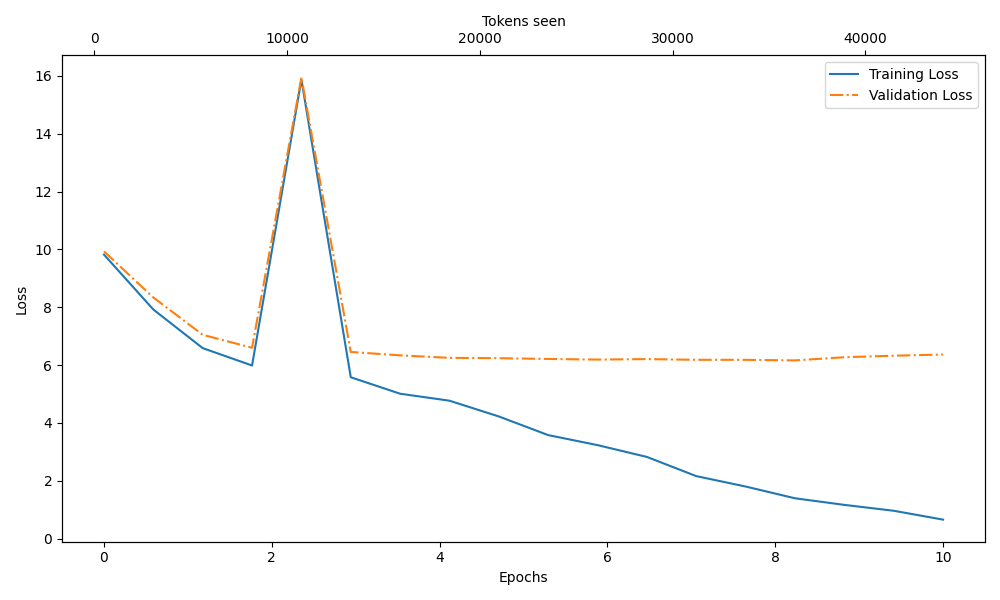
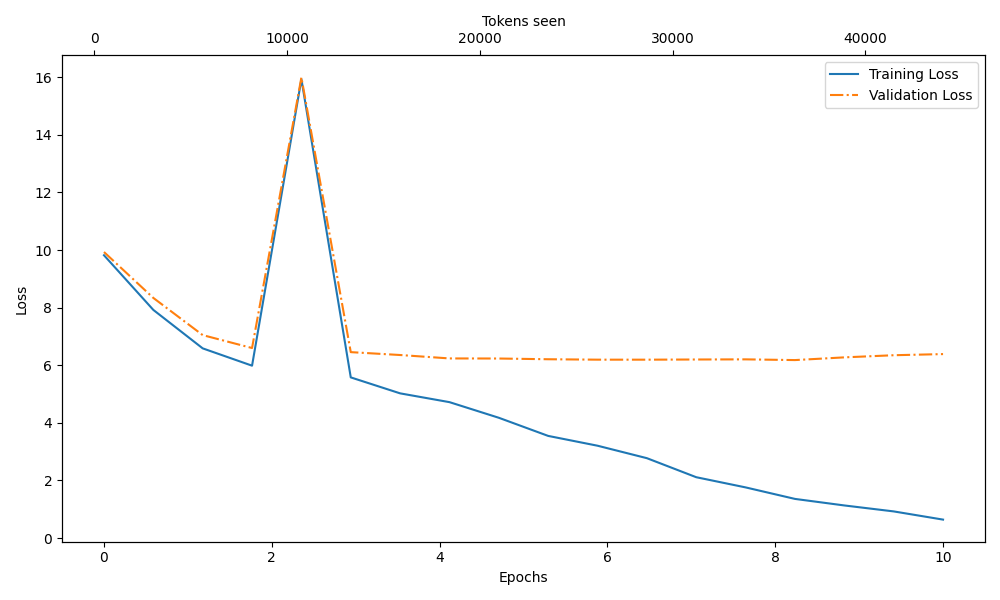
decoding methods

diff --git a/Ch4_gpt_model/run.py b/Ch4_gpt_model/run.py
@@ -1,5 +1,6 @@
 import tiktoken
 import torch
+from torch.cuda import temperature
 from Ch4_gpt_model.config import GPT_CONFIG_124M
 from Ch4_gpt_model.gpt_model import GPTModel
 
@@ -16,9 +17,48 @@ def generate_text_example(model, idx, max_new_tokens, context_size):
         
         logits = logits[:, -1, :] # logits.shape is (batch, n_tokens, vocab_size)
         probs = torch.softmax(logits, dim=-1)
-        idx_next = torch.argmax(probs, dim=-1, keepdim=True)
+        idx_next = torch.argmax(probs, dim=-1, keepdim=True) #greedy
         idx = torch.cat((idx, idx_next), dim=1) # n_tokens dim
     
+    return idx
+
+def generate(
+    model,
+    idx,
+    max_new_tokens,
+    context_size,
+    temperature=0.0,
+    top_k=None,
+    eos_id=None
+):
+    for _ in range(max_new_tokens):
+        idx_cond = idx[:, -context_size:]
+        with torch.no_grad():
+            logits = model(idx_cond)
+        logits = logits[:, -1, :]
+    
+        # Top-k Sampling
+        if top_k is not None:
+            top_logits, _ = torch.topk(logits, top_k)
+            min_val = top_logits[:, -1]
+            logits = torch.where(
+                logits < min_val,
+                torch.tensor(float('-inf')).to(logits.device),
+                logits
+            )
+        
+        # Followed by Temparature scaling
+        if temperature > 0.0:
+            logits = logits/temperature
+            probs = torch.softmax(logits, dim=-1)
+            idx_next = torch.multinomial(probs, num_samples=1)
+        else:
+            idx_next = torch.argmax(logits, dim=-1, keepdim=True)
+        
+        if idx_next == eos_id:
+            break
+
+        idx = torch.cat((idx, idx_next), dim=1)
     return idx
 
 if __name__ == "__main__":

diff --git a/Ch5_training/decoding.py b/Ch5_training/decoding.py
@@ -1,0 +1,45 @@
+import torch
+from torch.functional import _return_counts
+
+
+def get_token_dist(probas, inverse_vocab, n_iter=1000):
+    """
+    Monte Carlo Sample from a probability vector.
+    Map the token_id to the word from vocabulary.
+    Present the distribution.
+    """
+    samples = torch.multinomial(probas, num_samples=n_iter, replacement=True)
+    token_ids, next_token_counts = torch.unique(samples, return_counts=True)
+    return {inverse_vocab[token_ids[i].item()]: next_token_counts[i].item()/n_iter for i in range(len(token_ids))}
+
+def temp_scale(logits, temperature):
+    return torch.softmax(logits/temperature, dim=0)
+
+if __name__ == "__main__":
+    vocab = {
+        "closer": 0,
+        "every": 1,
+        "effort": 2,
+        "forward": 3,
+        "inches": 4,
+        "moves": 5,
+        "pizza": 6,
+        "toward": 7,
+        "you": 8
+    }
+
+    inverse_vocab = {v: k for k, v in vocab.items()}
+
+    next_token_logits = torch.tensor([4.51, 0.89, -1.90, 6.75, 1.63, -1.62, -1.89, 6.28, 1.79])
+    probas = torch.softmax(next_token_logits, dim=0)
+
+    dist = get_token_dist(probas, inverse_vocab)
+    print(dist)
+    print("===")
+
+    temps = [1, 0.1, 5]
+    prob_tensors = [temp_scale(next_token_logits, T) for T in temps]
+    for i in range(len(prob_tensors)):
+        print("---")
+        print(f"For Temperature={temps[i]}: Monte Carlo Dist={get_token_dist(prob_tensors[i], inverse_vocab)}")
+        print(f"Scaled Probability={prob_tensors[i]}")

diff --git a/Ch5_training/train_utils.py b/Ch5_training/train_utils.py
@@ -3,7 +3,7 @@ import matplotlib.pyplot as plt
 from matplotlib.ticker import MaxNLocator
 from Ch2_text_data.dataset_loader import create_dataloader_V1
 from Ch4_gpt_model.gpt_model import GPTModel
-from Ch4_gpt_model.run import generate_text_example
+from Ch4_gpt_model.run import generate_text_example, generate
 from Ch5_training.base import GPT_CONFIG_124M, text_to_token_ids, token_ids_to_text
 
 file_path = "Ch2_text_data/the-verdict.txt"
@@ -80,11 +80,13 @@ def generate_and_print_sample(model, tokenizer, device, start_context):
     context_size = model.pos_emb.weight.shape[0]
     encoded = text_to_token_ids(start_context, tokenizer).to(device)
     with torch.no_grad():
-        token_ids = generate_text_example(
+        token_ids = generate(
             model=model,
             idx=encoded,
             max_new_tokens=50,
-            context_size=context_size
+            context_size=context_size,
+            top_k=25,
+            temperature=1.4
         )
     decoded_text = token_ids_to_text(token_ids, tokenizer)
     print(decoded_text.replace("\n", " "))
